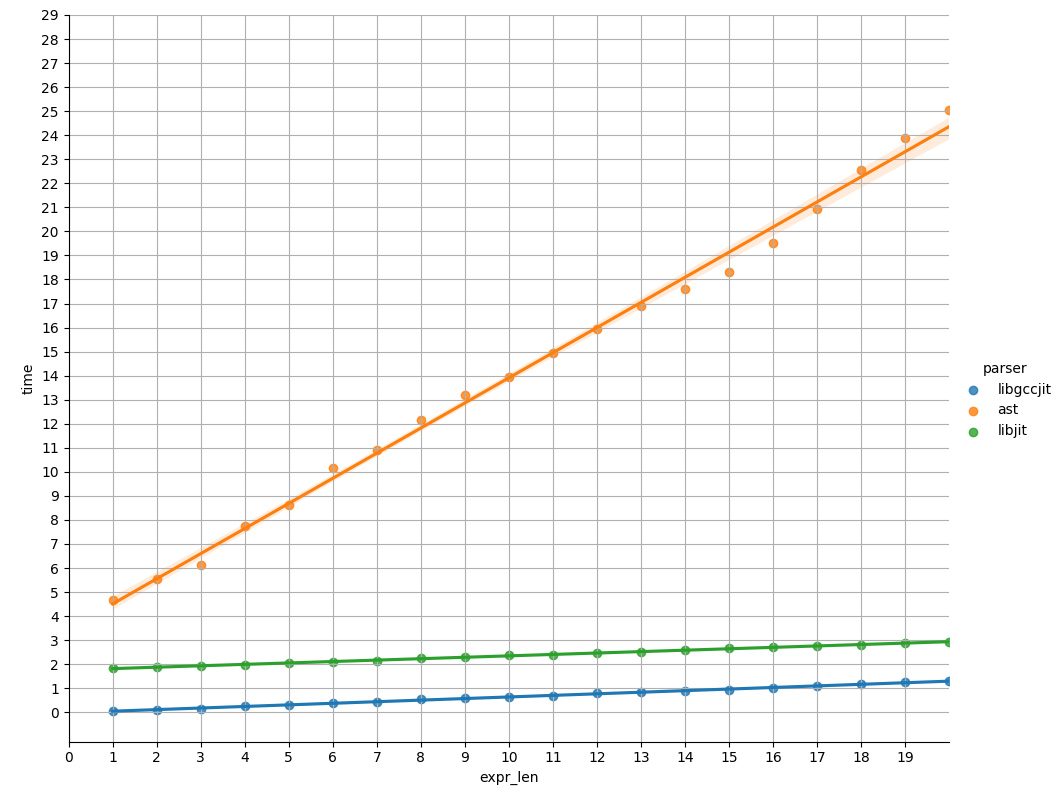
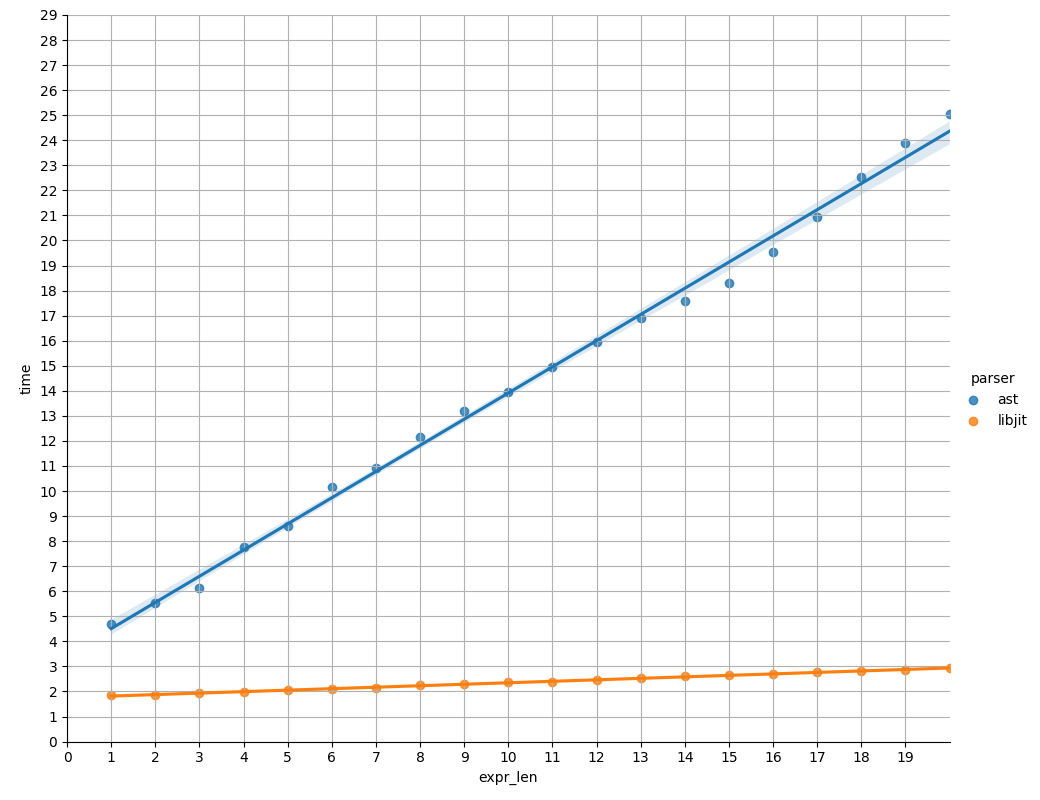
Update benchmark

diff --git a/libjitparser.c b/libjitparser.c
@@ -140,54 +140,6 @@ jit_function_t create_code(jit_context_t ctxt, tables_t* tables,
 
     jit_function_t function = jit_function_create(ctxt, signature);
 
-
-    /*
-    jit_value_t first_letter = jit_value_create_float64_constant(function, jit_type_sys_double, (long double)statement[0] - '0');
-    jit_value_t res = jit_value_create(function, jit_type_sys_long_double);
-    jit_insn_store(function, res, first_letter);
-
-    jit_value_t x = jit_value_get_param(function, 0);
-    jit_value_t temp = jit_insn_add(function, res, x);
-    jit_insn_store(function, res, temp);
-
-    jit_insn_return(function, res);
-
-    
-    return function;
-    */
-
-
-    
-    /*
-    gcc_jit_type* int_type =
-        gcc_jit_context_get_type(ctxt, GCC_JIT_TYPE_INT);
-    gcc_jit_type* Lf_type =
-        gcc_jit_context_get_type(ctxt, GCC_JIT_TYPE_LONG_DOUBLE);
-    gcc_jit_type* array_int_type =
-        gcc_jit_context_new_array_type(ctxt, NULL, int_type, MAX_STATES);
-    gcc_jit_type* array_Lf_type =
-        gcc_jit_context_new_array_type(ctxt, NULL, Lf_type, MAX_STATES);
-
-    gcc_jit_param* x_val =
-        gcc_jit_context_new_param(ctxt, NULL, Lf_type, "x_val");
-
-    gcc_jit_function* func =
-        gcc_jit_context_new_function(
-            ctxt, NULL, GCC_JIT_FUNCTION_EXPORTED, Lf_type, "libgccjit",
-            1, &x_val, 0
-        );
-
-    gcc_jit_block* block =
-        gcc_jit_function_new_block(func, "main_block");
-
-    gcc_jit_rvalue* result =
-        gcc_jit_lvalue_as_rvalue(
-            gcc_jit_function_new_local(func, NULL, array_Lf_type, "result"));
-    
-    gcc_jit_rvalue* x =
-        gcc_jit_param_as_rvalue(x_val);
-    */
-
     jit_value_t x = jit_value_get_param(function, 0);
     jit_value_t size = jit_value_create_nint_constant(
         function, jit_type_int, MAX_STATES * sizeof(long double));
@@ -298,8 +250,6 @@ jit_function_t get_jit_function(tables_t* tables, char* statement)
 
     jit_function_compile(function);
     jit_context_build_end(ctxt);
-
-    //jit_context_destroy(ctxt);
 
     return function;
 }

diff --git a/test.py b/test.py
@@ -91,7 +91,15 @@ class ExpressionEvaluationTest(unittest.TestCase):
     @settings(max_examples=1000)
     @given(expr)
     def test_libjit(self, expr):
-        self._gen_test_and_verify(expr, 'libjitparser')    
+        self._gen_test_and_verify(expr, 'libjitparser')
+
+    @given(st.text(alphabet=[chr(ord('a') + x) for x in range(26)]))
+    def test_aa(self, s):
+        if len(s) == 3 and s == 'loh':
+            0/0
+        else:
+            print(s)
+        
 
     
 if __name__ == '__main__':
